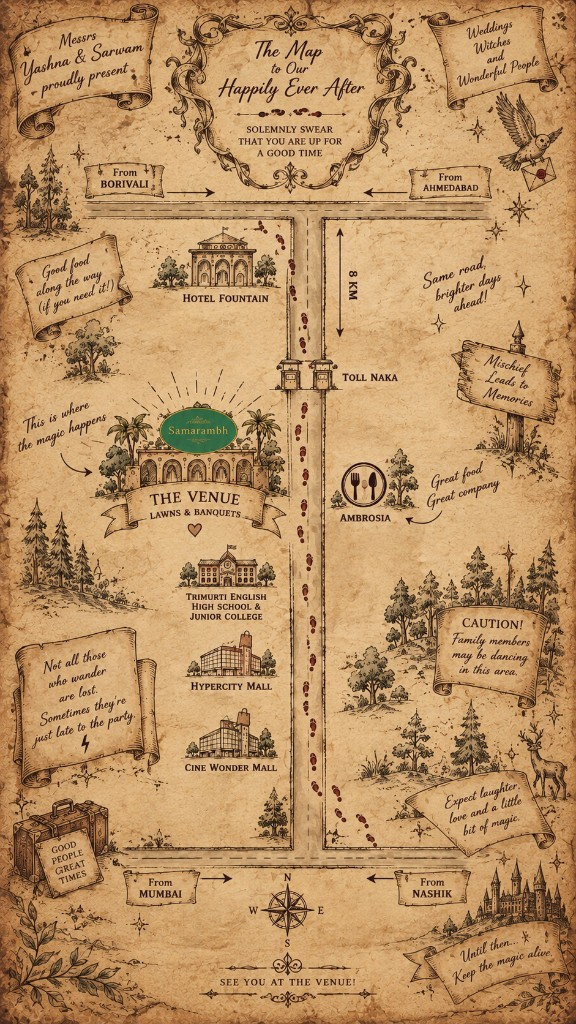
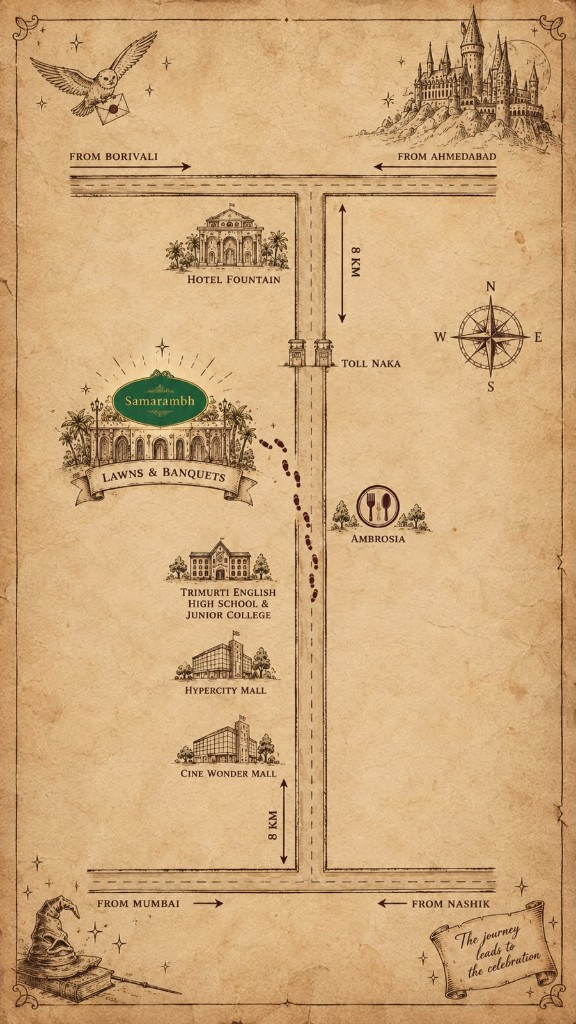
Update celebration details, map artwork, gallery, and footer date.
Set real event times and Mehendi at The Legend Banquet Hall in Dombivli, replace the Marauder's Map, remove gallery captions, and show 15 November 2026 in the footer.

diff --git a/index.html b/index.html
@@ -166,15 +166,15 @@
           <div class="event-group-list">
             <article class="event-card">
               <div class="event-card-head">
-                <span class="event-time">Throughout the day</span>
+                <span class="event-time">3:00 PM onwards</span>
                 <span class="event-tag">Colour</span>
               </div>
               <div class="event-card-body">
                 <h3>Mehendi</h3>
                 <p>Henna, colour, music and all the happy chaos that comes with a beautiful celebration.</p>
                 <div class="event-meta">
-                  <p class="event-meta-venue"><strong>Amanora The Fern</strong> · Pune, Maharashtra</p>
-                  <a class="event-directions" href="https://www.google.com/maps/dir/?api=1&amp;destination=Amanora+The+Fern,+Pune,+Maharashtra" target="_blank" rel="noopener noreferrer">Directions →</a>
+                  <p class="event-meta-venue"><strong>The Legend Banquet Hall</strong> · Dombivli, Maharashtra</p>
+                  <a class="event-directions" href="https://share.google/g1Q5YPcM8ZcoG5mml" target="_blank" rel="noopener noreferrer">Directions →</a>
                 </div>
               </div>
             </article>
@@ -185,7 +185,7 @@
           <div class="event-group-list event-group-list--duo">
             <article class="event-card">
               <div class="event-card-head">
-                <span class="event-time">9:30 AM</span>
+                <span class="event-time">9:30 AM onwards</span>
                 <span class="event-tag">Sunshine</span>
               </div>
               <div class="event-card-body">
@@ -200,7 +200,7 @@
 
             <article class="event-card">
               <div class="event-card-head">
-                <span class="event-time">7:00 PM</span>
+                <span class="event-time">6:00 PM onwards</span>
                 <span class="event-tag">Music</span>
               </div>
               <div class="event-card-body">
@@ -219,12 +219,12 @@
           <div class="event-group-list event-group-list--duo">
             <article class="event-card featured">
               <div class="event-card-head">
-                <span class="event-time">7:30 AM · Muhurta 12:05 PM</span>
+                <span class="event-time">8:00 AM · Muhurta 12:05 PM</span>
                 <span class="event-tag">Forever</span>
               </div>
               <div class="event-card-body">
                 <h3>The Wedding</h3>
-                <p>Morning rituals from 7:30 AM, muhurta at 12:05 PM, followed by lunch.</p>
+                <p>Morning rituals from 8 AM, muhurta at 12:05 PM, followed by lunch.</p>
                 <div class="event-meta">
                   <p class="event-meta-venue"><strong>Samarambh Lawns</strong> · Thane, Maharashtra</p>
                   <a class="event-directions" href="https://maps.app.goo.gl/A95F68MAezmrFNLD7" target="_blank" rel="noopener noreferrer">Directions →</a>
@@ -234,7 +234,7 @@
 
             <article class="event-card">
               <div class="event-card-head">
-                <span class="event-time">6:30 PM</span>
+                <span class="event-time">6:30 PM onwards</span>
                 <span class="event-tag">Celebrate</span>
               </div>
               <div class="event-card-body">
@@ -255,7 +255,7 @@
         <div class="location-grid">
           <div class="location-map">
             <button type="button" class="location-map-btn" id="mapLightboxOpen" aria-label="Open the Marauder's Map directions">
-              <img class="location-map-preview" src="assets/marauders-map-preview.png" alt="Marauder's Map preview - tap to open directions to Samarambh Lawns" width="163" height="308" loading="lazy" decoding="async">
+              <img class="location-map-preview" src="assets/marauders-map-preview.png" alt="Marauder's Map preview - tap to open directions to Samarambh Lawns" width="163" height="290" loading="lazy" decoding="async">
             </button>
             <p class="location-map-hint">Tap to unfold the map</p>
             <p class="location-map-credit">Messrs. Moony, Wormtail, Padfoot &amp; Prongs approve this route.</p>
@@ -266,7 +266,7 @@
             <p class="location-spell"><em>Locatum Revelio</em> - if you're lost, tap the map.</p>
             <h2>Samarambh Lawns</h2>
             <p class="location-address">Thane, Maharashtra</p>
-            <p class="location-note">Platform 9¾ was booked - the map leads to Samarambh Lawns, Thane instead. Haldi, Sangeet, Wedding and Reception are all here. Routes from Mumbai, Borivali, Ahmedabad and Nashik on the map. No Portkeys. Floo Network offline. Owls politely declined at the gate.</p>
+            <p class="location-note">Mehendi is at The Legend Banquet Hall in Dombivli. Platform 9¾ was booked - the map leads to Samarambh Lawns, Thane instead, where Haldi, Sangeet, Wedding and Reception are held. Routes from Mumbai, Borivali, Ahmedabad and Nashik on the map. No Portkeys. Floo Network offline. Owls politely declined at the gate.</p>
             <div class="location-actions">
               <a class="event-directions location-maps-link" href="https://maps.app.goo.gl/A95F68MAezmrFNLD7" target="_blank" rel="noopener noreferrer">Muggle navigation →</a>
               <div class="location-qr">
@@ -308,35 +308,34 @@
       </div>
       <div class="flipbook reveal-on-scroll" id="galleryFlipbook">
         <div class="flipbook-stage" aria-live="polite">
-          <figure class="flipbook-card" data-caption="Our quiet song">
+          <figure class="flipbook-card">
             <img src="assets/gallery-01.png" alt="Sarwam and Yashna with a guitar on the balcony" width="800" height="1067" decoding="async">
           </figure>
-          <figure class="flipbook-card" data-caption="Still waters">
+          <figure class="flipbook-card">
             <img src="assets/gallery-02.png" alt="Sarwam and Yashna embracing by the waterfront" width="800" height="1067" loading="lazy" decoding="async">
           </figure>
-          <figure class="flipbook-card" data-caption="Side by side">
+          <figure class="flipbook-card">
             <img src="assets/gallery-03.png" alt="Sarwam and Yashna playing video games together" width="800" height="1067" loading="lazy" decoding="async">
           </figure>
-          <figure class="flipbook-card" data-caption="Mumbai, together">
+          <figure class="flipbook-card">
             <img src="assets/gallery-04.png" alt="Sarwam and Yashna at the Gateway of India" width="800" height="1067" loading="lazy" decoding="async">
           </figure>
-          <figure class="flipbook-card" data-caption="Shared pages">
+          <figure class="flipbook-card">
             <img src="assets/gallery-05.png" alt="Sarwam and Yashna reading a comic book together" width="800" height="1067" loading="lazy" decoding="async">
           </figure>
-          <figure class="flipbook-card" data-caption="Soft stardust">
+          <figure class="flipbook-card">
             <img src="assets/gallery-06.png" alt="Sarwam and Yashna under a starry light projection" width="800" height="1067" loading="lazy" decoding="async">
           </figure>
-          <figure class="flipbook-card" data-caption="On the stairs">
+          <figure class="flipbook-card">
             <img src="assets/gallery-07.png" alt="Sarwam and Yashna on a wooden staircase" width="800" height="1067" loading="lazy" decoding="async">
           </figure>
-          <figure class="flipbook-card" data-caption="Slow dance">
+          <figure class="flipbook-card">
             <img src="assets/gallery-08.png" alt="Sarwam and Yashna dancing together" width="800" height="1067" loading="lazy" decoding="async">
           </figure>
         </div>
         <div class="flipbook-ui">
           <button class="flipbook-btn flipbook-prev" type="button" aria-label="Previous photo">‹</button>
           <div class="flipbook-meta">
-            <p class="flipbook-caption">Our quiet song</p>
             <span class="flipbook-count"><span class="flipbook-current">1</span> / <span class="flipbook-total">8</span></span>
           </div>
           <button class="flipbook-btn flipbook-next" type="button" aria-label="Next photo">›</button>
@@ -386,7 +385,7 @@
     <div class="footer-monogram">S<span>&</span>Y</div>
     <p>Made with love for <b>Sarwam &amp; Yashna</b></p>
     <p class="footer-hashtag">#SarwamAndYashna</p>
-    <p class="footer-date">13 - 15 · NOVEMBER · 2026</p>
+    <p class="footer-date">15 November 2026</p>
   </footer>
 
   <audio id="siteMusic" class="site-music" loop preload="auto" playsinline webkit-playsinline src="assets/until-i-found-you.mp3"></audio>

diff --git a/script.js b/script.js
@@ -629,7 +629,7 @@ if (window.matchMedia("(prefers-reduced-motion: reduce)").matches) {
       "DTSTART;TZID=Asia/Kolkata:20261115T120500",
       "DTEND;TZID=Asia/Kolkata:20261115T130500",
       "SUMMARY:Sarwam & Yashna - Wedding Muhurta",
-      "DESCRIPTION:Wedding muhurta at 12:05 PM. Morning rituals from 7:30 AM. Reception at 6:30 PM at Samarambh Lawns\\, Thane.",
+      "DESCRIPTION:Wedding muhurta at 12:05 PM. Morning rituals from 8 AM. Reception at 6:30 PM at Samarambh Lawns\\, Thane.",
       "LOCATION:Samarambh Lawns\\, Thane\\, Maharashtra",
       "END:VEVENT",
       "END:VCALENDAR"
@@ -946,7 +946,6 @@ if (window.matchMedia("(prefers-reduced-motion: reduce)").matches) {
   const cards = Array.from(flipbook.querySelectorAll(".flipbook-card"));
   const prevBtn = flipbook.querySelector(".flipbook-prev");
   const nextBtn = flipbook.querySelector(".flipbook-next");
-  const captionEl = flipbook.querySelector(".flipbook-caption");
   const currentEl = flipbook.querySelector(".flipbook-current");
   const totalEl = flipbook.querySelector(".flipbook-total");
   const dotsEl = flipbook.querySelector(".flipbook-dots");
@@ -1003,7 +1002,6 @@ if (window.matchMedia("(prefers-reduced-motion: reduce)").matches) {
       else card.classList.add("stack-hidden");
     });
 
-    captionEl.textContent = cards[current].dataset.caption || "";
     currentEl.textContent = String(current + 1);
     dots.forEach((dot, i) => dot.classList.toggle("is-active", i === current));
   }

diff --git a/styles.css b/styles.css
@@ -159,7 +159,6 @@ a{color:inherit;text-decoration:none}
 .flipbook-btn:hover:not(:disabled){background:var(--maroon);color:#fff;border-color:var(--maroon);transform:scale(1.05)}
 .flipbook-btn:disabled{opacity:.35;cursor:not-allowed}
 .flipbook-meta{flex:1;text-align:center;min-width:0}
-.flipbook-caption{font:italic clamp(20px,3vw,26px) var(--serif);color:var(--deep);margin:0 0 6px}
 .flipbook-count{font:600 10px var(--sans);letter-spacing:2px;color:var(--muted);text-transform:uppercase}
 .flipbook-dots{display:flex;gap:8px;justify-content:center}
 .flipbook-dot{width:7px;height:7px;border-radius:50%;background:rgba(125,24,32,.2);border:0;padding:0;cursor:pointer;transition:transform .2s,background .2s}
